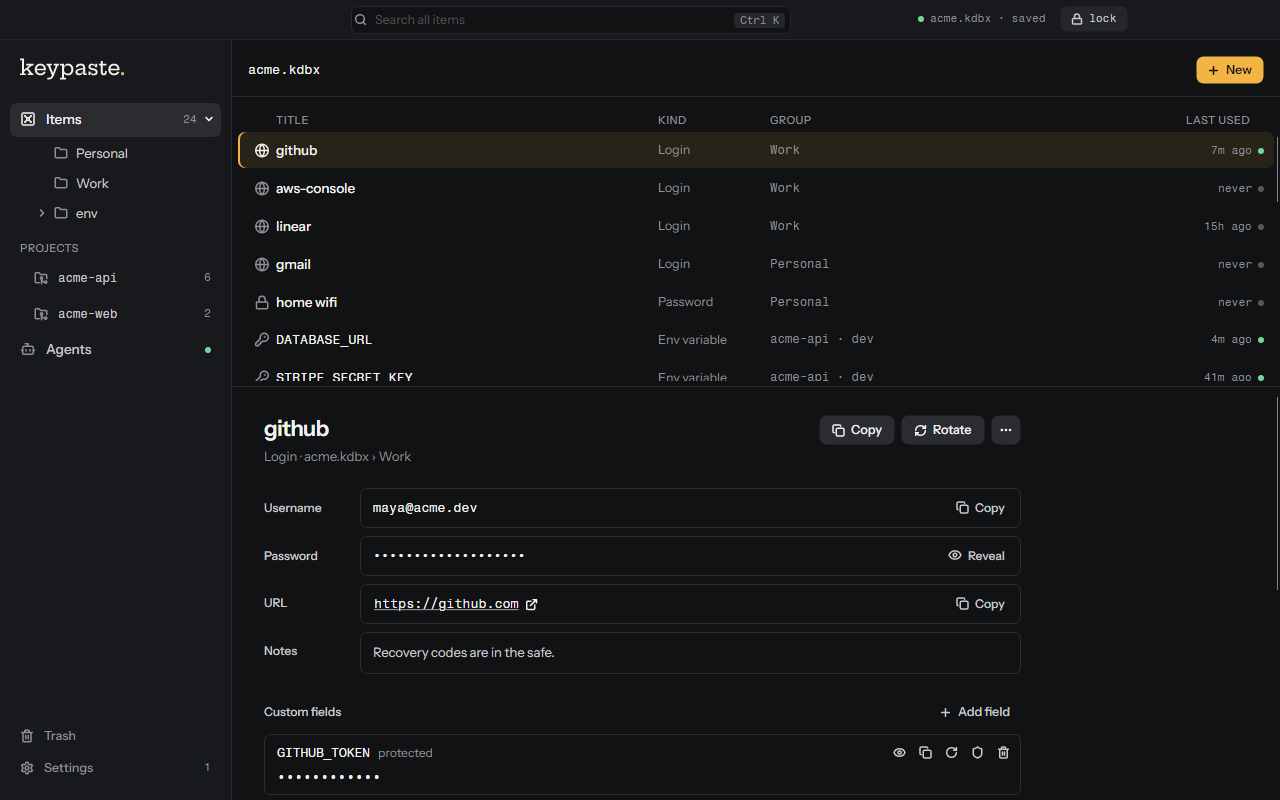
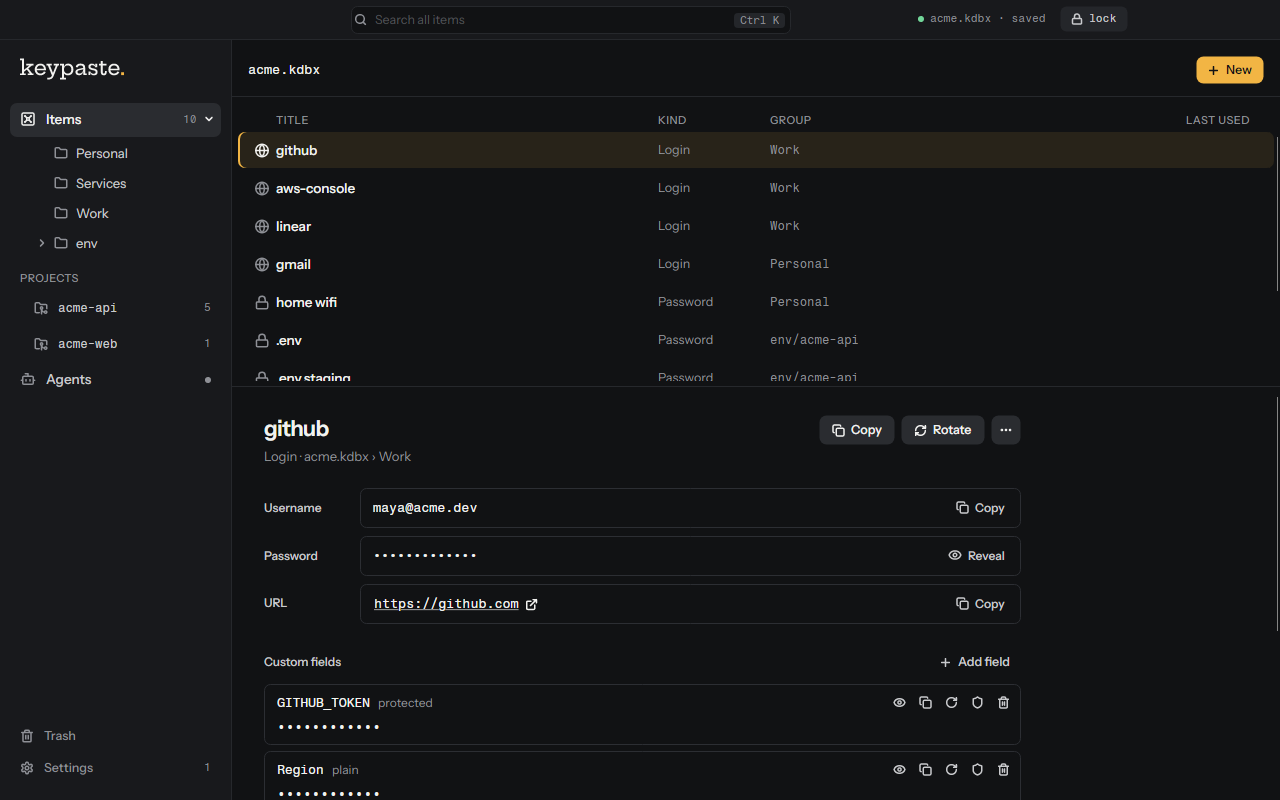
Show the current app in README's screenshots and demo GIF

diff --git a/README.md b/README.md
@@ -37,14 +37,14 @@ The published `v0.3.0` CLI stores logins and environment variables in a local KD
 
 <table>
   <tr>
-    <td width="33%"><img src="docs/screenshots/approval-prompt.png" alt="The approval prompt: claude-code wants 1 secret, env/acme-api/DATABASE_URL, with the agent's reason and the choices Deny, Allow once and Allow for 1 hour."></td>
-    <td width="33%"><img src="docs/screenshots/env-profiles.png" alt="Env profiles: a matrix of acme-api's keys across dev, staging and prod, with masked values, and the .env.keypaste preview holding only kp:// references."></td>
-    <td width="33%"><img src="docs/screenshots/agents.png" alt="Agents: a request waiting for you, active grants with the time left and Revoke, and each MCP client's policy."></td>
+    <td width="33%"><img src="docs/screenshots/approval-prompt.png" alt="The approval prompt: claude-code wants 1 secret, the DATABASE_URL field of env/acme-api/.env, with the agent's reason and the choices Deny, Allow once and Allow for 1 hour."></td>
+    <td width="33%"><img src="docs/screenshots/env-profiles.png" alt="The acme-api project: its keys across dev, staging and prod with masked values and the item each comes from, Import .env and Export .env.keypaste."></td>
+    <td width="33%"><img src="docs/screenshots/agents.png" alt="Agents: a request waiting for you with Show the prompt, allowances with the time left and End, and the AI tools found on this computer with each agent's settings."></td>
   </tr>
   <tr>
     <td>An agent's request, in the app</td>
     <td>A project and its <code>.env.keypaste</code></td>
-    <td>Grants, clients and their policies</td>
+    <td>Requests, allowances and AI tools</td>
   </tr>
 </table>
 
